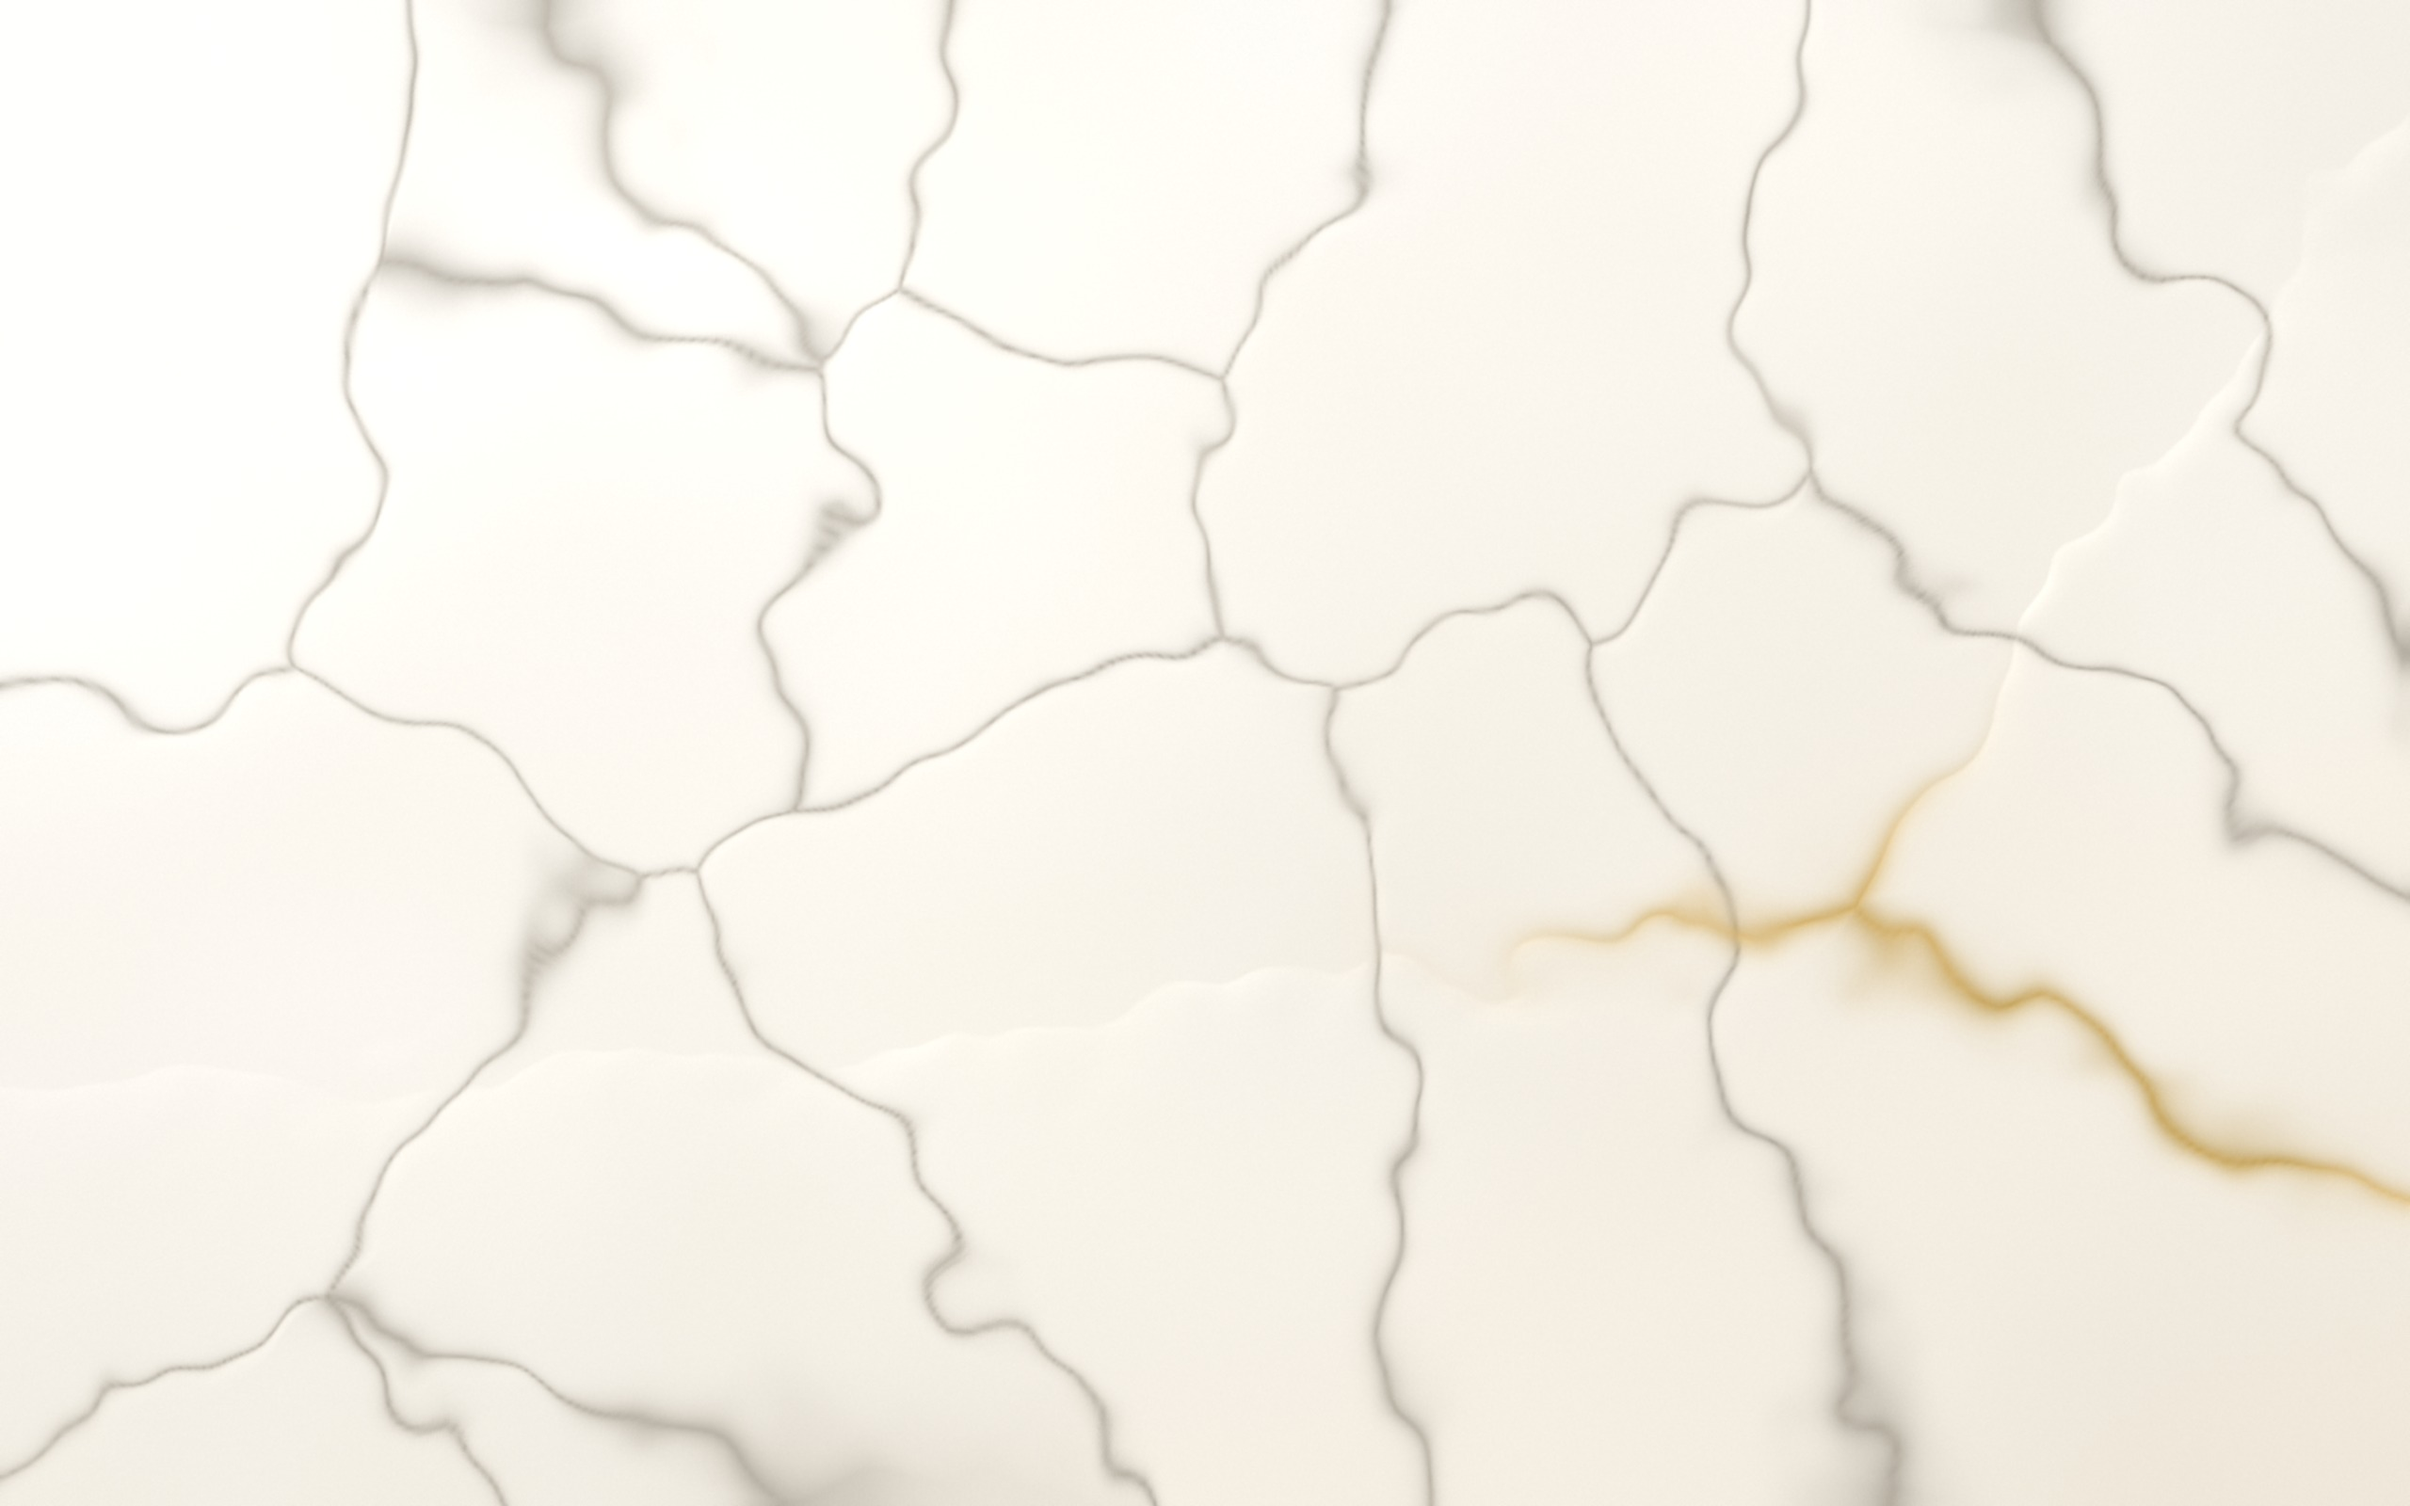
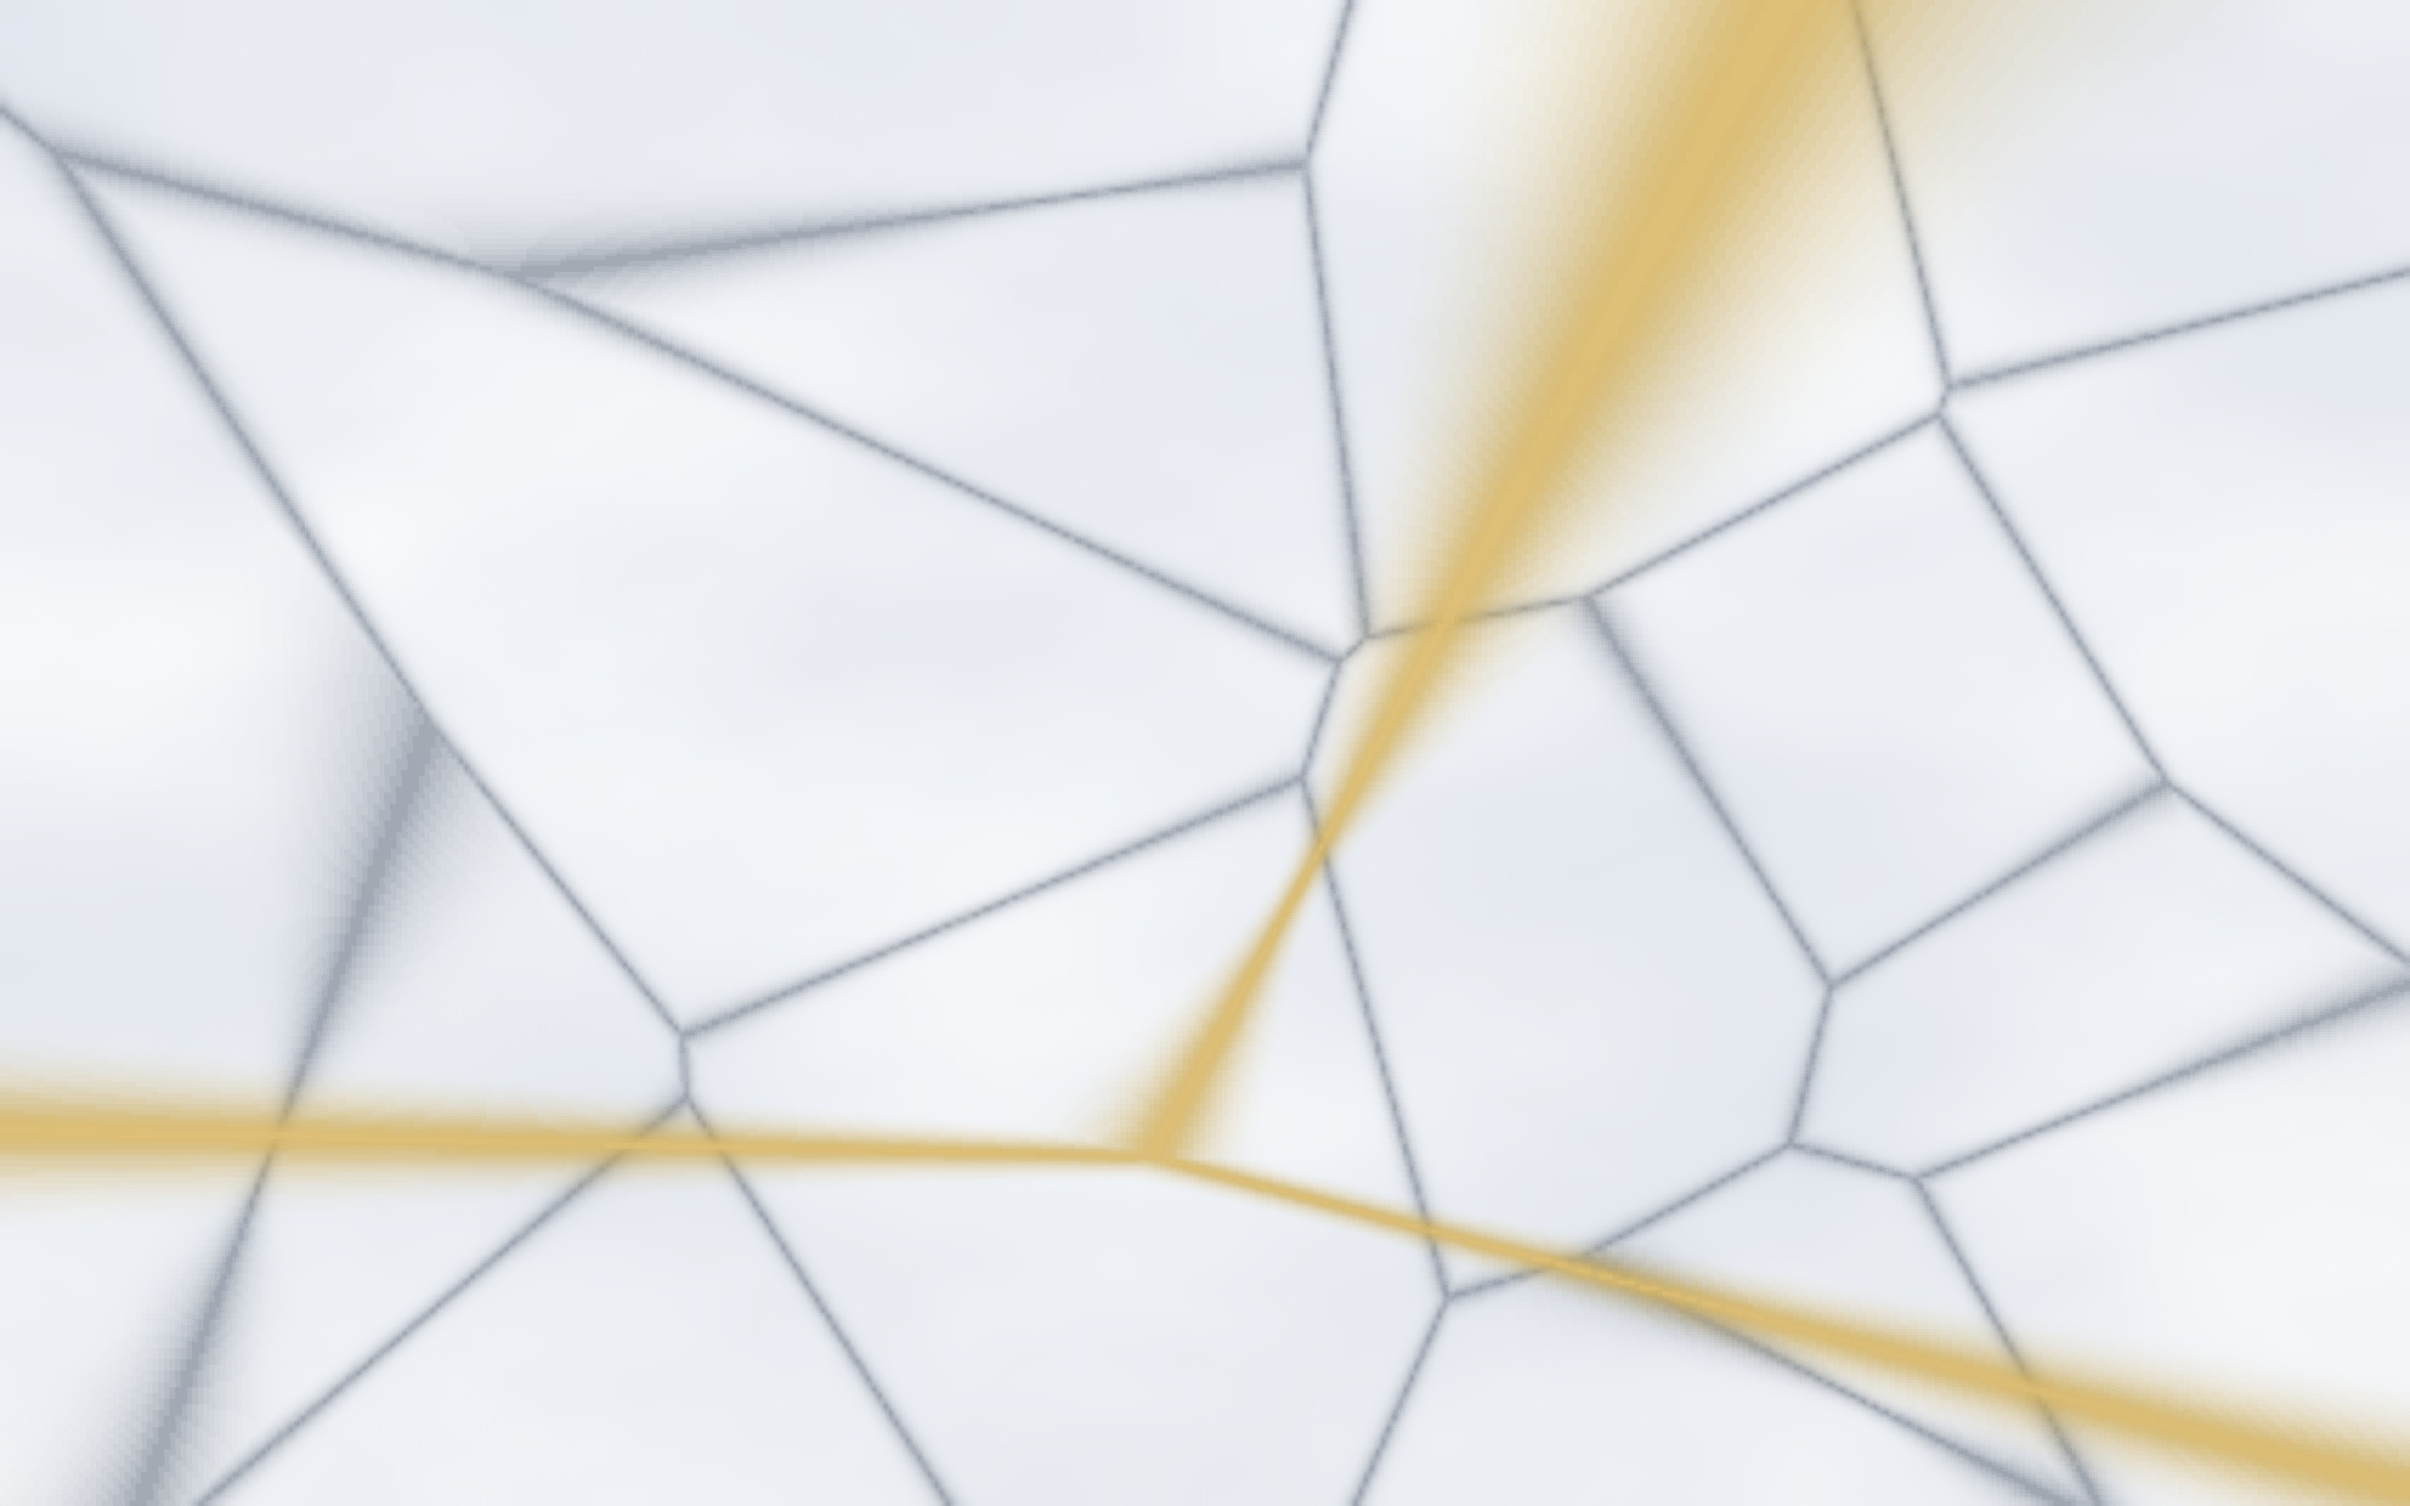
Cool the marble background from warm cream to grey-white so it pairs with the new navy ink palette; gold veins unchanged

diff --git a/public/offline.html b/public/offline.html
@@ -6,7 +6,7 @@
 <title>Gangan &amp; Partners — Немає з'єднання</title>
 <style>
   body { margin:0; min-height:100vh; display:flex; align-items:center; justify-content:center;
-    background:#f6f1e6; color:#10223f; font-family:-apple-system,BlinkMacSystemFont,'Inter',sans-serif;
+    background:#eef1f5; color:#10223f; font-family:-apple-system,BlinkMacSystemFont,'Inter',sans-serif;
     text-align:center; padding:24px; }
   h1 { font-size:20px; margin:0 0 12px; }
   p { font-size:14px; color:#4f6382; max-width:360px; margin:0 auto; line-height:1.6; }

diff --git a/src/app/globals.css b/src/app/globals.css
@@ -42,7 +42,7 @@ html {
 }
 
 body {
-  background-color: #f6f1e6;
+  background-color: #eef1f5;
   background-image: url('/marble-bg.jpg');
   background-size: cover;
   background-position: center;
